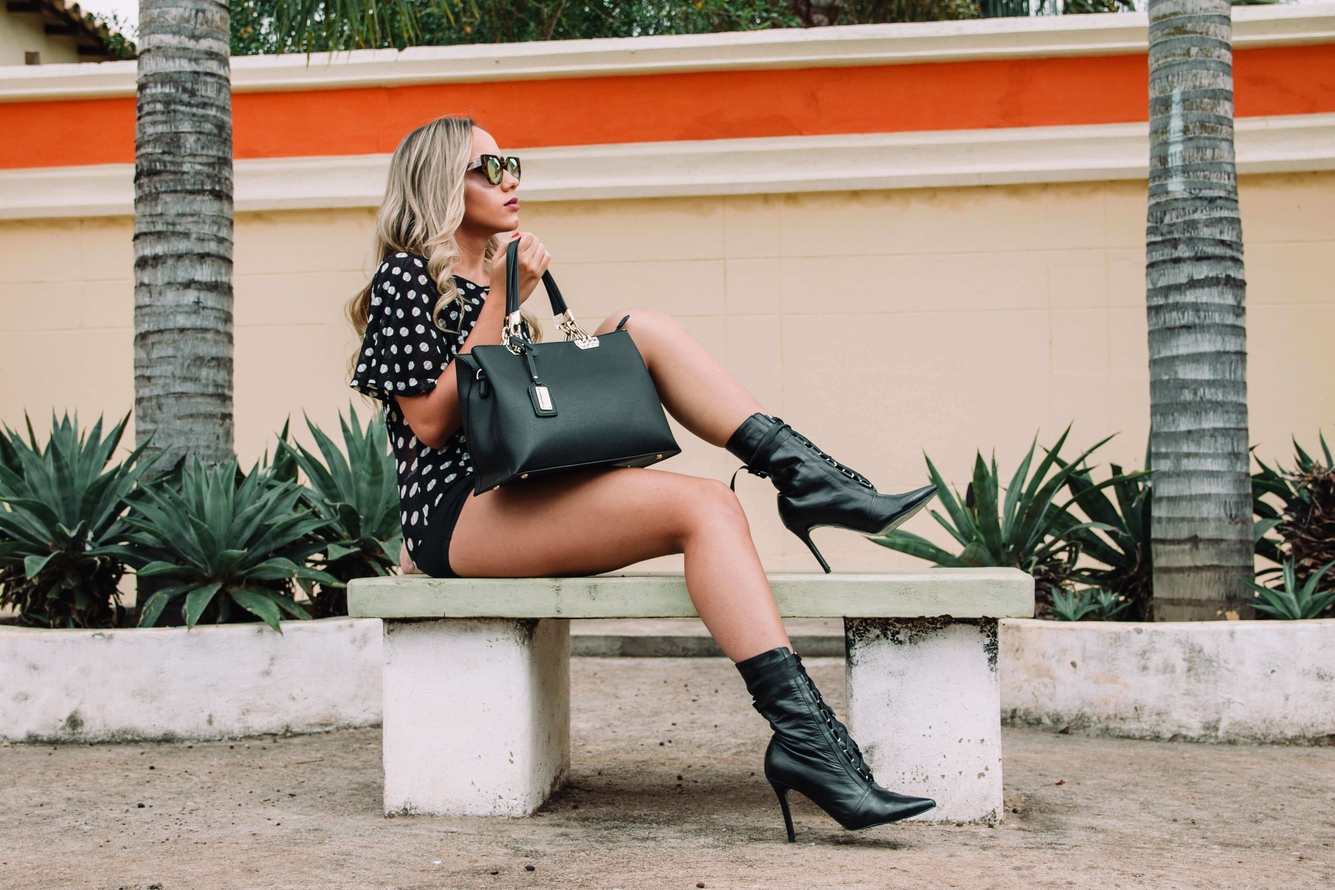
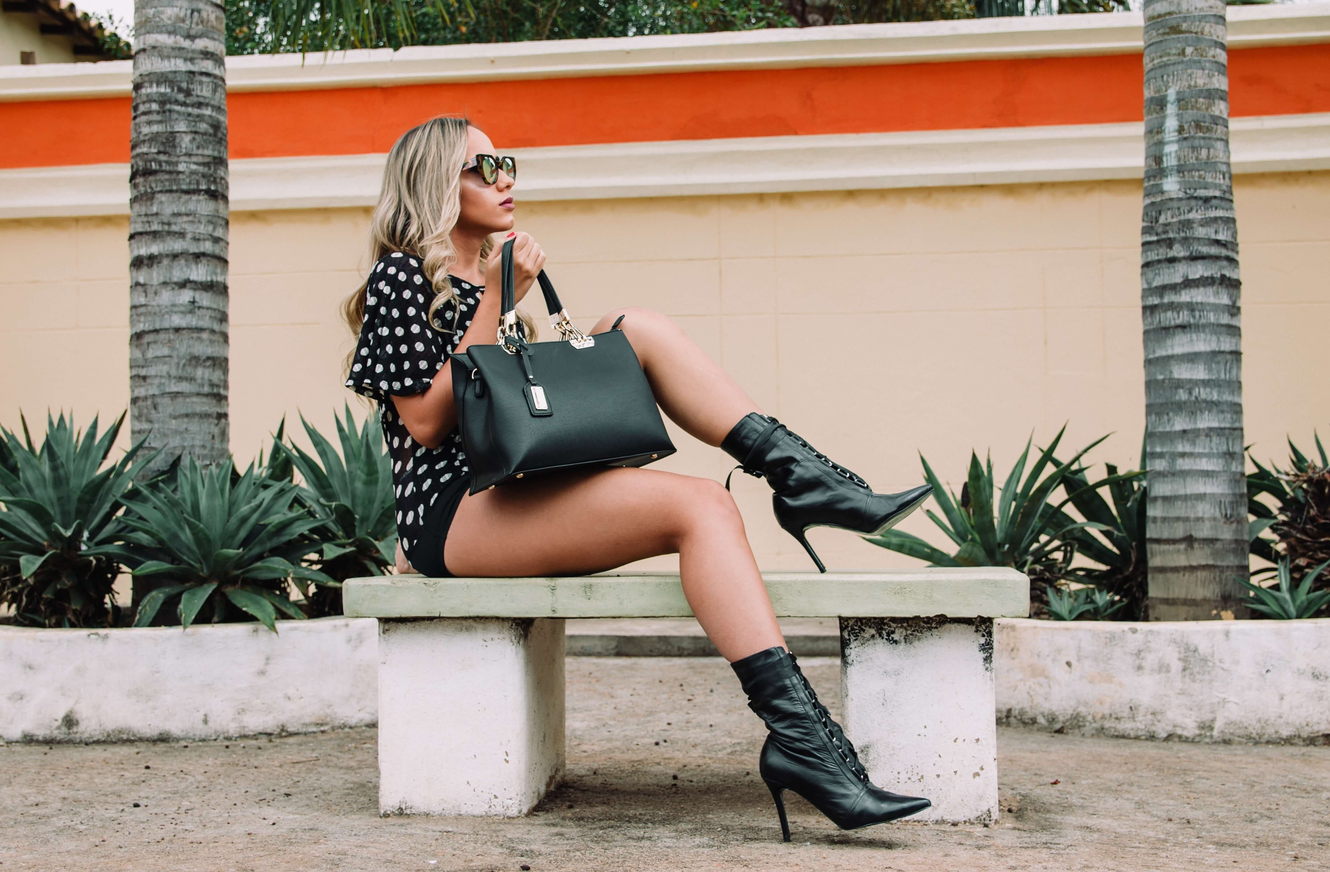
Changed image on home carousel

diff --git a/home/templates/home/index.html b/home/templates/home/index.html
@@ -20,7 +20,7 @@
                 <div class="carousel-inner h-50">
                   <div class="carousel-item active" data-bs-interval="10000">
                     <img src="{% get_media_prefix %}carousel-1.jpg" class="d-block w-100 home-img" alt="...">
-                    <div class="carousel-caption d-none d-md-block col-md-4 offset-md-6">
+                    <div class="carousel-caption d-none d-md-block col-lg-4 offset-lg-6 col-md-6 offset-md-4 py-lg-3 py-md-4 px-4">
                         <h1 class="display-6 text-black logo-font mt-4">
                             Style Consultant
                         </h1>
@@ -28,15 +28,15 @@
                             Look & Feel Amazing
                         </h3>
                         <h4 class="mt-4">
-                            <a href="{% url 'products' %}?category=styling_services" class="get-styled-button btn btn-large rounded-0 text-uppercase py-3">
+                            <a href="{% url 'products' %}?category=styling_services" class="get-styled-button btn btn-large rounded-0 text-uppercase py-3 px-2">
                                 Let's Get Styled!
                             </a>
                         </h4>
                     </div>
                   </div>
                   <div class="carousel-item" data-bs-interval="2000">
-                    <img src="{% get_media_prefix %}carousel-2.jpg" class="d-block w-100" alt="...">
-                    <div class="carousel-caption d-none d-md-block col-md-4">
+                    <img src="{% get_media_prefix %}carousel-4.jpg" class="d-block w-100 home-img" alt="...">
+                    <div class="carousel-caption d-none d-md-block col-lg-4 col-md-6 py-md-0 py-lg-2 px-4 text-center">
                         <h1 class="display-6 text-black logo-font mt-4">
                             Style Consultant
                         </h1>
@@ -44,15 +44,15 @@
                             Look & Feel Amazing
                         </h3>
                         <h4 class="mt-4">
-                            <a href="{% url 'products' %}?category=styling_services" class="get-styled-button btn btn-large rounded-0 text-uppercase py-3">
+                            <a href="{% url 'products' %}?category=styling_services" class="get-styled-button btn btn-large rounded-0 text-uppercase py-3 px-2">
                                 Let's Get Styled!
                             </a>
                         </h4>
                     </div>
                   </div>
                   <div class="carousel-item">
-                    <img src="{% get_media_prefix %}carousel-3.jpg" class="d-block w-100" alt="...">
-                    <div class="carousel-caption d-none d-md-block col-md-4">
+                    <img src="{% get_media_prefix %}carousel-3.jpg" class="d-block w-100 home-img" alt="...">
+                    <div class="carousel-caption d-none d-md-block col-lg-4 col-md-6 py-0 px-4">
                         <h1 class="display-6 text-black logo-font mt-4">
                             Style Consultant
                         </h1>
@@ -60,7 +60,7 @@
                             Look & Feel Amazing
                         </h3>
                         <h4 class="mt-4">
-                            <a href="{% url 'products' %}?category=styling_services" class="get-styled-button btn btn-large rounded-0 text-uppercase py-3">
+                            <a href="{% url 'products' %}?category=styling_services" class="get-styled-button btn btn-large rounded-0 text-uppercase py-3 px-2">
                                 Let's Get Styled!
                             </a>
                         </h4>
@@ -88,8 +88,8 @@
     <!--Client Stories-->
     <div class="row mb-5">
         <hr class="mt-5 mb-5">
-        <div class="col-md-12 text-center bg-orange">
-            <h2 class="display-6 text-center text-black logo-font mt-5 mb-5">Styled Stories</h2>
+        <div class="col-md-12 text-center bg-orange mb-3">
+            <h2 class="display-6 text-center text-black logo-font mt-5 mb-4">Styled Stories</h2>
             <div id="clientSlides" class="carousel slide" data-bs-ride="carousel">
                 <div class="carousel-inner text-center">
                     <div class="carousel-item active">

diff --git a/static/css/base.css b/static/css/base.css
@@ -107,7 +107,7 @@ h2.logo-font{
 }
 
 #all-products-link,
-#home-link
+#home-link,
 #about-link,
 #contact-link,
 #outfit-link,
